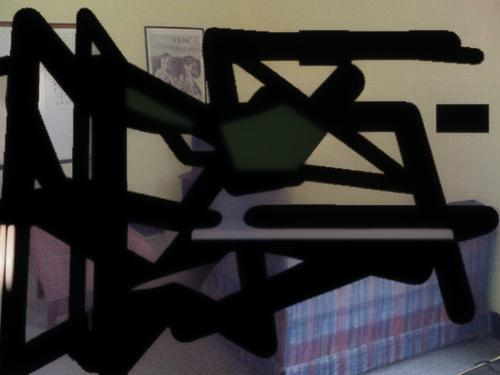
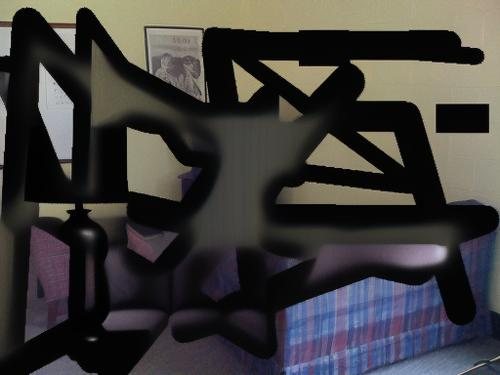
only annealing

diff --git a/fixed_versions/v2_improved_pipeline.py b/fixed_versions/v2_improved_pipeline.py
@@ -24,48 +24,130 @@ class ImprovedInpaintPipeline(V1Pipeline):
         mask_dilated = cv.dilate(mask_np, kernel, iterations=1)
         
         # 2. Feather mask: Use Gaussian blur to create a soft transition gradient
-        # mask_pil = Image.fromarray(mask_dilated).filter(ImageFilter.GaussianBlur(radius=self.feather_radius))
-        mask_pil = mask_dilated
+        mask_pil = Image.fromarray(mask_dilated).filter(ImageFilter.GaussianBlur(radius=self.feather_radius))
         return mask_pil
+
+    import torch
+import numpy as np
+from PIL import Image, ImageFilter
+import cv2 as cv
+from vanilla_pipeline import InpaintPipeline
+from pipeline import InpaintPipelineInput
+
+class ImprovedInpaintPipeline(InpaintPipeline):
+    def __init__(self):
+        # Inherit directly from Vanilla to avoid Time-Travel clashes
+        super().__init__()
+        self.feather_radius = 10
+        self.dilate_kernel_size = 5
+
+    def preprocess(self, pipe_in: InpaintPipelineInput):
+        """
+        Dilate and Feather the mask for soft boundaries.
+        """
+        mask_np = np.array(pipe_in.mask_image.convert("L"))
+        
+        # 1. Dilate
+        kernel = np.ones((self.dilate_kernel_size, self.dilate_kernel_size), np.uint8)
+        mask_dilated = cv.dilate(mask_np, kernel, iterations=1)
+        
+        # 2. Feather (Gaussian Blur)
+        mask_pil = Image.fromarray(mask_dilated).filter(ImageFilter.GaussianBlur(radius=self.feather_radius))
+        pipe_in.mask_image = mask_pil
+
+        # Pass back to vanilla to handle image formatting
+        return super().preprocess(pipe_in)
 
     @torch.no_grad()
     def denoise(self, text_embeddings, init_latents, mask_tensor, num_inference_steps=50):
         """
-        Combines Time-Travel Resampling (V1) with Annealed Blending (V2).
+        Standard linear denoising loop with Annealed Blending and Energy Normalization.
         """
+        self.scheduler.set_timesteps(num_inference_steps, device=self.device)
+        noise = torch.randn_like(init_latents)
+
+        # Initial Setup (mask_tensor: 1=hole, 0=background)
+        latents = ((self.scheduler.add_noise(init_latents, noise, self.scheduler.timesteps[0]) * (1 - mask_tensor))
+                   + (noise * mask_tensor))
+
+        for i, t in enumerate(self.scheduler.timesteps):
+            # 1. U-Net Prediction
+            latent_model_input = torch.cat([latents] * 2)
+            latent_model_input = self.scheduler.scale_model_input(latent_model_input, t)
+
+            noise_pred = self.unet(latent_model_input, t, encoder_hidden_states=text_embeddings).sample
+            
+            # CFG
+            noise_pred_uncond, noise_pred_text = noise_pred.chunk(2)
+            noise_pred = noise_pred_uncond + self.CFG_SCALE_FACTOR * (noise_pred_text - noise_pred_uncond)
+
+            # 2. Step the scheduler
+            latents = self.scheduler.step(noise_pred, t, latents).prev_sample
+
+            # 3. Prepare background for the current step
+            if i < len(self.scheduler.timesteps) - 1:
+                t_next = self.scheduler.timesteps[i + 1]
+                background_noise = torch.randn_like(init_latents)
+                known_background = self.scheduler.add_noise(init_latents, background_noise, t_next)
+            else:
+                known_background = init_latents
+
+            # --- 4. ANNEALED FEATHERED BLENDING ---
+            progress = i / len(self.scheduler.timesteps)
+            
+            # We shrink the generation weight by up to 15% at the very end
+            # This allows the background to bleed into the feathered edges
+            anneal_factor = 1.0 - (0.15 * progress) 
+            
+            bg_weight = (1 - mask_tensor)
+            gen_weight = mask_tensor * anneal_factor
+
+            # Blend
+            latents = (known_background * bg_weight) + (latents * gen_weight)
+            
+            # Normalize to prevent the gray/dark noise at the blurred edges
+            latents = latents / (bg_weight + gen_weight + 1e-6)
+
+        return latents
+    
+    '''
+    @torch.no_grad()
+    def denoise(self, text_embeddings, init_latents, mask_tensor, num_inference_steps=50):
         self.scheduler.set_timesteps(num_inference_steps, device=self.device)
         schedule_indices = self._get_repaint_schedule(num_inference_steps) # From V1
         
+        # --- NEW: Find exactly where Phase 1 ends and Phase 2 begins ---
+        last_jump_idx = -1
+        for i in range(len(schedule_indices) - 1):
+            if schedule_indices[i+1] < schedule_indices[i]: # Identifies backward jumps
+                last_jump_idx = i
+                
         noise = torch.randn_like(init_latents)
-        latents = ((self.scheduler.add_noise(init_latents, noise, self.scheduler.timesteps[schedule_indices[0]]) * (1 - mask_tensor))
-                   + (noise * mask_tensor))
+        latents = ((self.scheduler.add_noise(init_latents, noise, self.scheduler.timesteps[schedule_indices[0]]) * (1 - mask_tensor)) 
+                + (noise * mask_tensor))
 
         for idx, step_index in enumerate(schedule_indices):
             t = self.scheduler.timesteps[step_index]
             
-            # Classifier Free Guidance logic from V1
+            # Predict noise
             latent_model_input = torch.cat([latents] * 2)
             latent_model_input = self.scheduler.scale_model_input(latent_model_input, t)
             noise_pred = self.unet(latent_model_input, t, encoder_hidden_states=text_embeddings).sample
+            
+            # CFG
             noise_pred_uncond, noise_pred_text = noise_pred.chunk(2)
             noise_pred = noise_pred_uncond + self.CFG_SCALE_FACTOR * (noise_pred_text - noise_pred_uncond)
 
             latents = self.scheduler.step(noise_pred, t, latents).prev_sample
 
-            # --- ANNEALED BLENDING LOGIC ---
-            # Gradually reduce mask influence as t -> 0 to allow texture continuity.
-            # Progresses from 0.0 (start) to 1.0 (end)
-            progress = idx / len(schedule_indices)
-            anneal_factor = 1.0 - (0.1 * progress) # Retain 85% of background strength at the end
-            current_mask = mask_tensor * anneal_factor
-
-            # Handle Time-Travel (V1 logic) and Background Context
+            # Handle Background Context & Jumps
             is_last_step = (idx == len(schedule_indices) - 1)
             if not is_last_step:
                 next_step_index = schedule_indices[idx + 1]
                 t_next = self.scheduler.timesteps[next_step_index]
                 
-                if next_step_index < step_index: # Backward jump
+                # Time-travel! Add noise back.
+                if next_step_index < step_index: 
                     beta = self.scheduler.betas[t_next].to(self.device)
                     latents = torch.sqrt(1 - beta) * latents + torch.sqrt(beta) * torch.randn_like(latents)
                 
@@ -74,7 +156,27 @@ class ImprovedInpaintPipeline(V1Pipeline):
             else:
                 known_background = init_latents
 
-            # Blend with Annealed/Feathered Mask
-            latents = (known_background * (1 - current_mask)) + (latents * current_mask)
-            
+            # --- THE SMARTER BLENDING LOGIC ---
+            if idx <= last_jump_idx:
+                # PHASE 1: Time-Travel Resampling Active
+                # Use strict blending to avoid corrupting latents before adding noise
+                latents = (known_background * (1 - mask_tensor)) + (latents * mask_tensor)
+            else:
+                # PHASE 2: Final Descent
+                # No more jumps, safe to apply Annealed Feathering
+                phase2_total_steps = len(schedule_indices) - 1 - last_jump_idx
+                current_phase2_step = idx - last_jump_idx
+                
+                progress = current_phase2_step / phase2_total_steps if phase2_total_steps > 0 else 1.0
+                anneal_factor = 1.0 - (0.05 * progress) # Reduce mask strength by up to 20%
+                
+                bg_weight = (1 - mask_tensor)
+                gen_weight = mask_tensor * anneal_factor
+                
+                # Blend and Normalize to prevent energy loss
+                latents = (known_background * bg_weight) + (latents * gen_weight)
+                latents = latents / (bg_weight + gen_weight + 1e-6)
+
         return latents
+
+        '''
